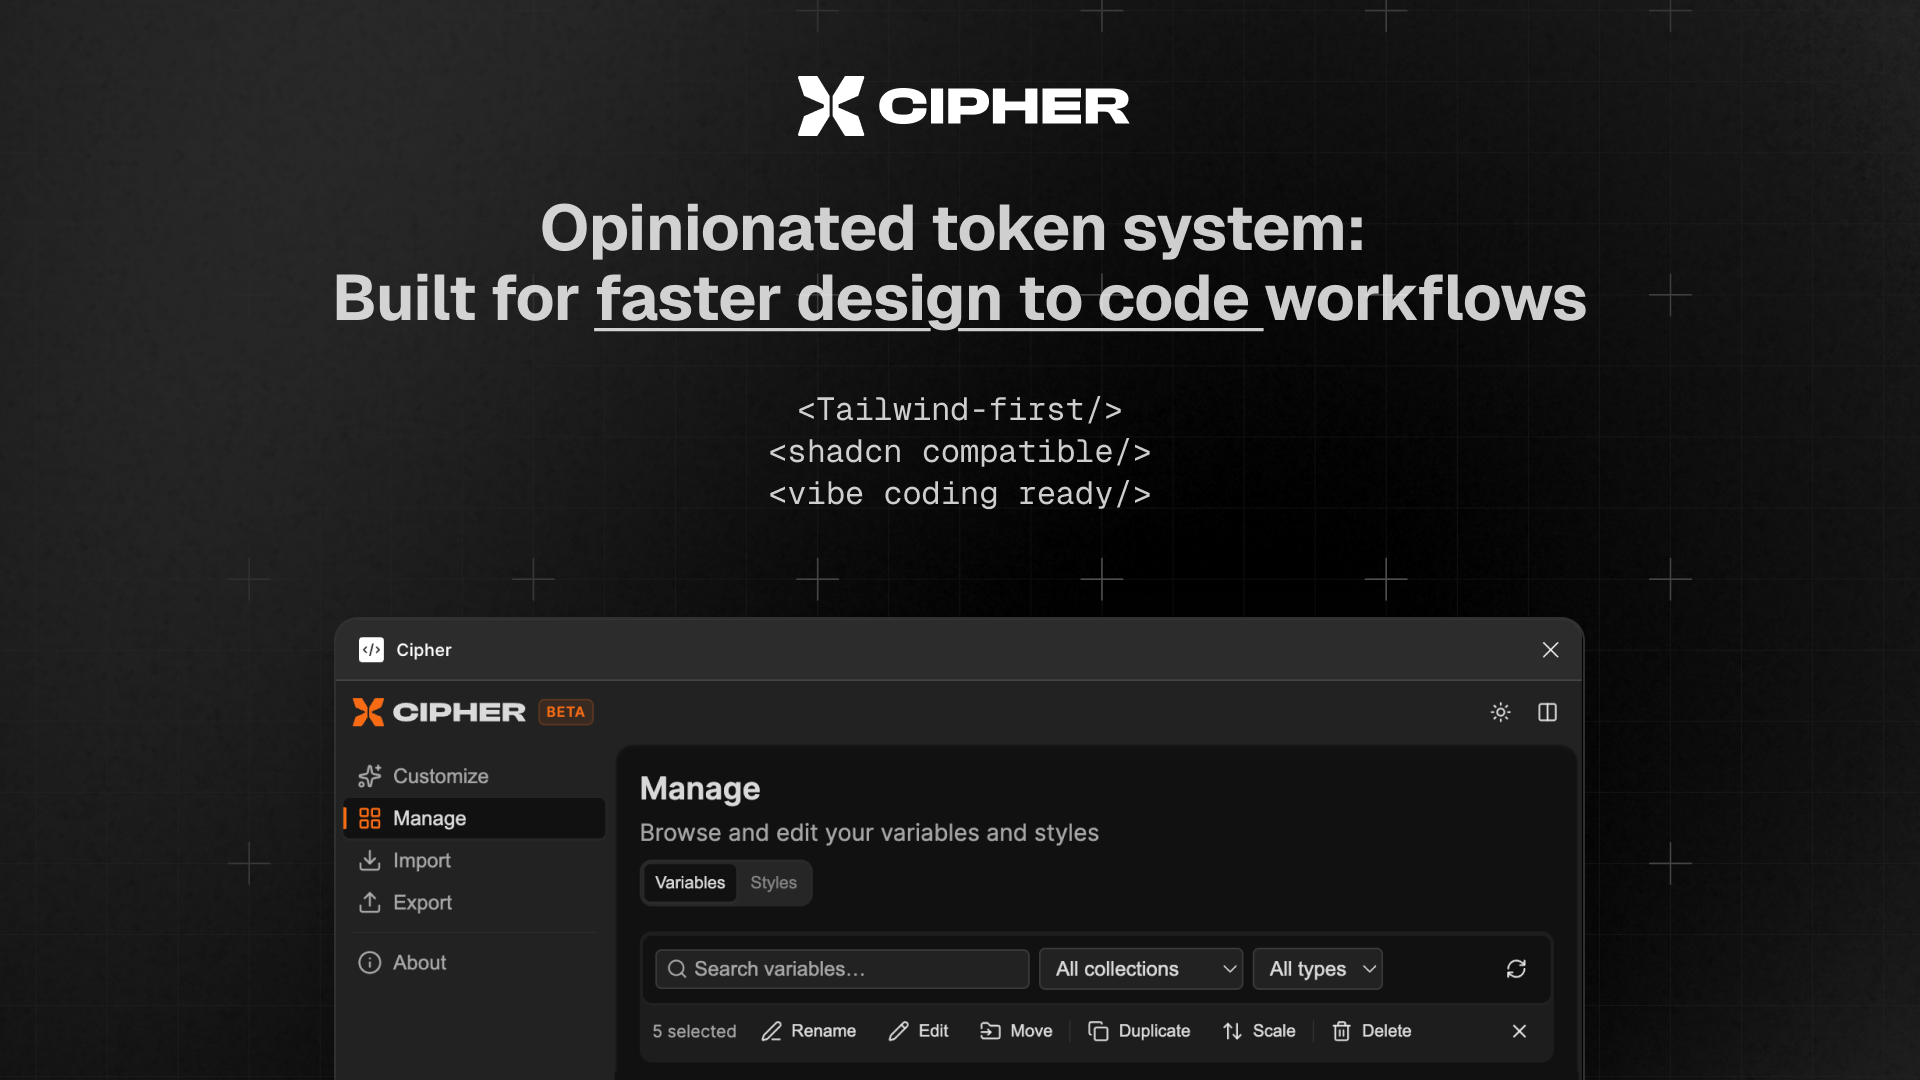
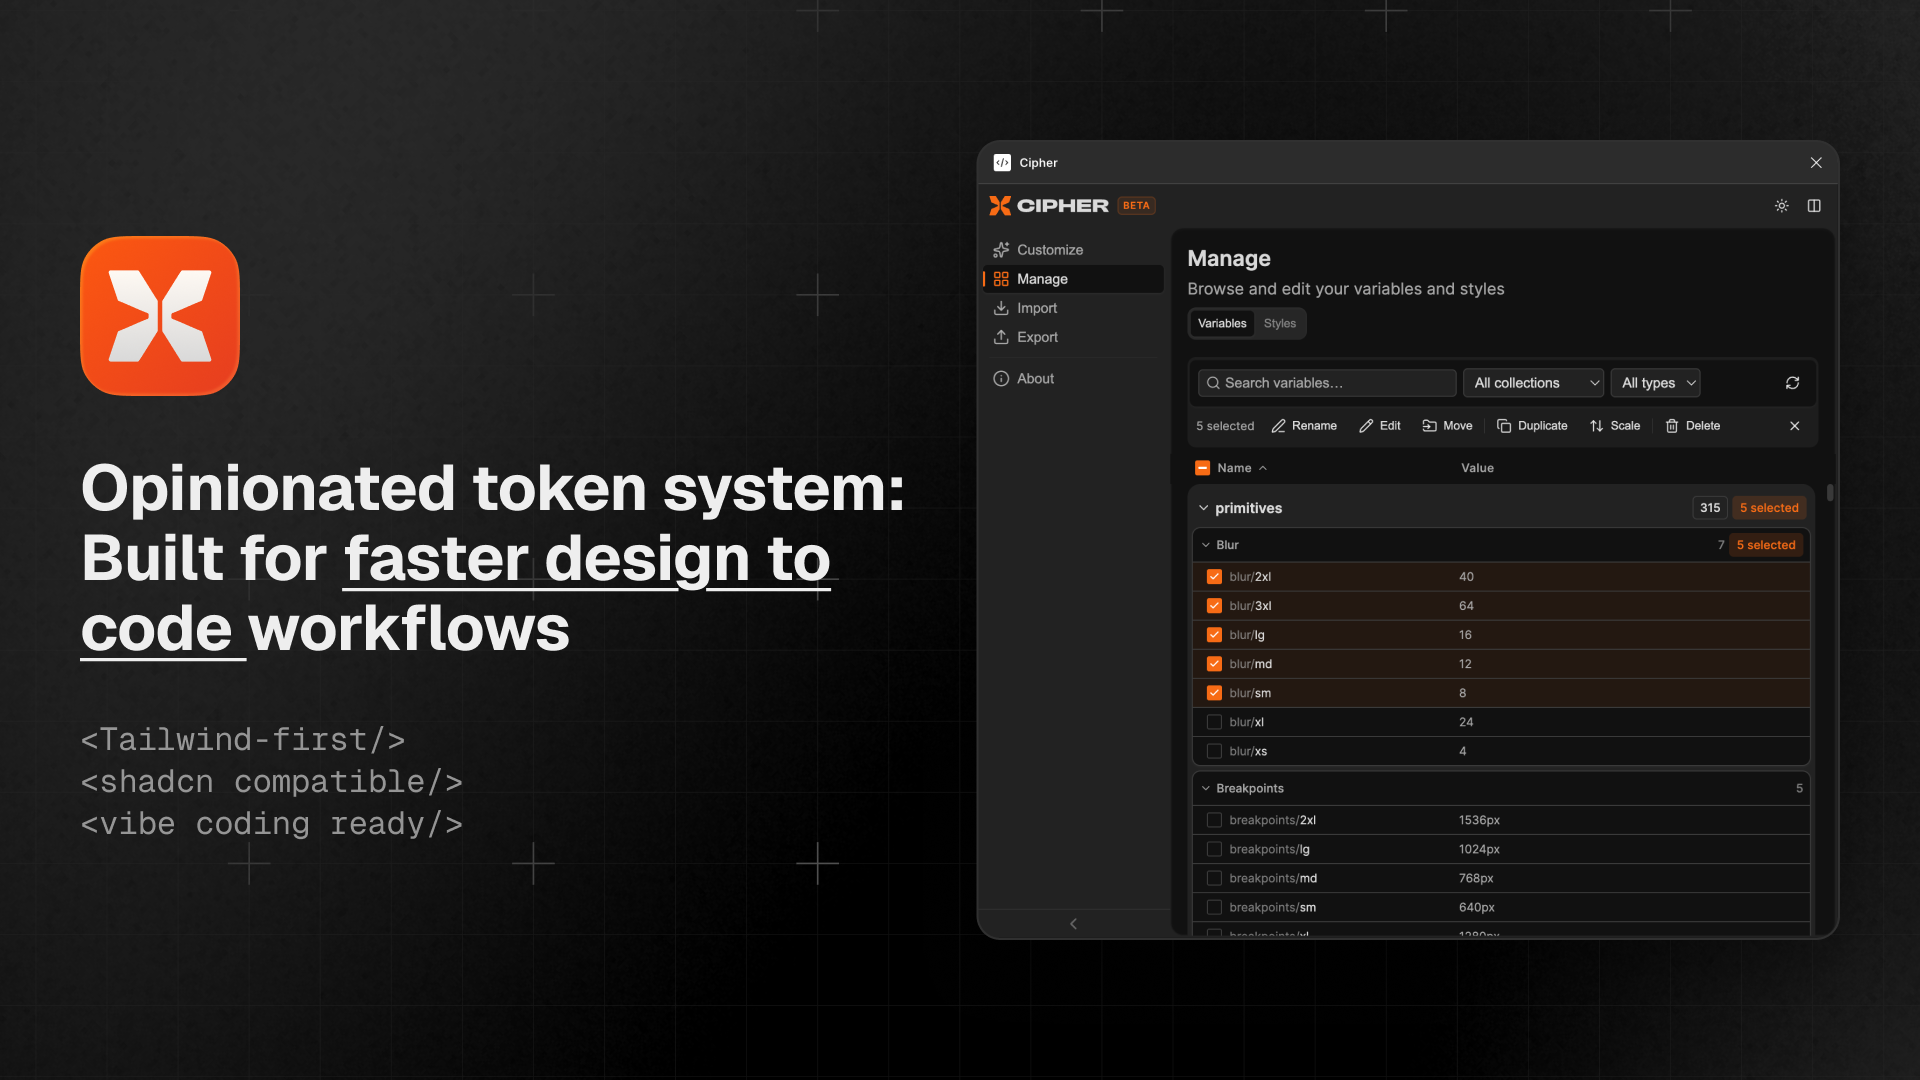
fix(plugin): rebind paint & text only; drop effect shadow color scan/apply
- Document scope in rebind-matching; keep undo for legacy effect bindings
- FAQ: remove open-source starter item
- Update plugin cover image

Made-with: Cursor

diff --git a/plugin/src/code.ts b/plugin/src/code.ts
@@ -882,35 +882,6 @@ figma.ui.onmessage = async (msg: UIToMainMessage) => {
 							});
 						}
 					});
-				} else if (style.type === "EFFECT") {
-					const effectStyle = style as EffectStyle;
-					effectStyle.effects.forEach((e, ei) => {
-						if (e.type === "DROP_SHADOW" || e.type === "INNER_SHADOW") {
-							const bv = (e as any).boundVariables || {};
-							if (!bv.color) {
-								const shadow = e as DropShadowEffect;
-								const a = "a" in shadow.color ? shadow.color.a : 1;
-								const key = colorKey(
-									shadow.color.r,
-									shadow.color.g,
-									shadow.color.b,
-									a,
-								);
-								const match = findByColor(key);
-								if (match) {
-									suggestions.push({
-										styleId,
-										styleName: effectStyle.name,
-										field: `effect:${ei}`,
-										currentColor: rgbToHex(shadow.color),
-										suggestedVariableId: match.id,
-										suggestedVariableName: match.name,
-										matchType: "exact",
-									});
-								}
-							}
-						}
-					});
 				} else if (style.type === "TEXT") {
 					const textStyle = style as TextStyle;
 					const bv = (textStyle as any).boundVariables || {};
@@ -1120,26 +1091,6 @@ figma.ui.onmessage = async (msg: UIToMainMessage) => {
 								} else {
 									failed++;
 								}
-							} else {
-								failed++;
-							}
-						} else {
-							failed++;
-						}
-					} else if (style.type === "EFFECT") {
-						const effectStyle = style as EffectStyle;
-						if (field.startsWith("effect:")) {
-							const ei = Number.parseInt(field.split(":")[1], 10);
-							const effects = [...effectStyle.effects];
-							if (effects[ei]) {
-								effects[ei] = figma.variables.setBoundVariableForEffect(
-									effects[ei],
-									"color",
-									variable,
-								);
-								effectStyle.effects = effects;
-								success++;
-								applied.push({ styleId, field });
 							} else {
 								failed++;
 							}

diff --git a/plugin/src/libraries/rebind-matching.ts b/plugin/src/libraries/rebind-matching.ts
@@ -1,6 +1,10 @@
 /**
  * Rebind matching helpers — extracted from scan-rebind handler for testability.
  * Used to match unbound style properties to local variables by path and value.
+ *
+ * **Scope:** Scan-rebind only suggests bindings for **paint** (fill) and **text**
+ * styles. Effect styles (shadow / blur) are **not** scanned — shadow colors and
+ * blur radii are intentionally left unbound so tokens stay on paint + typography.
  */
 
 /** Normalize a path for comparison: lowercase, strip hyphens/underscores/spaces */

diff --git a/website/src/pages/sections/faq-section.tsx b/website/src/pages/sections/faq-section.tsx
@@ -26,10 +26,6 @@ const FAQ_ITEMS = [
     a: "Designers and developers who care about readable token systems and alignment between design and code.",
   },
   {
-    q: "What is the open-source starter?",
-    a: "A public repo that applies Cipher's token structure in code. Use it as a reference or boilerplate.",
-  },
-  {
     q: "Why is Cipher in beta?",
     a: "It's usable today, but the workflow and feature set are still evolving. The beta label sets expectations while the product improves.",
   },
